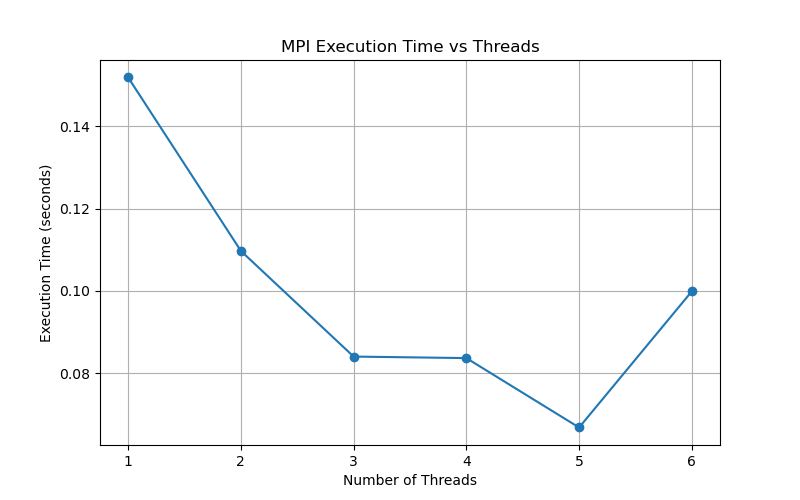
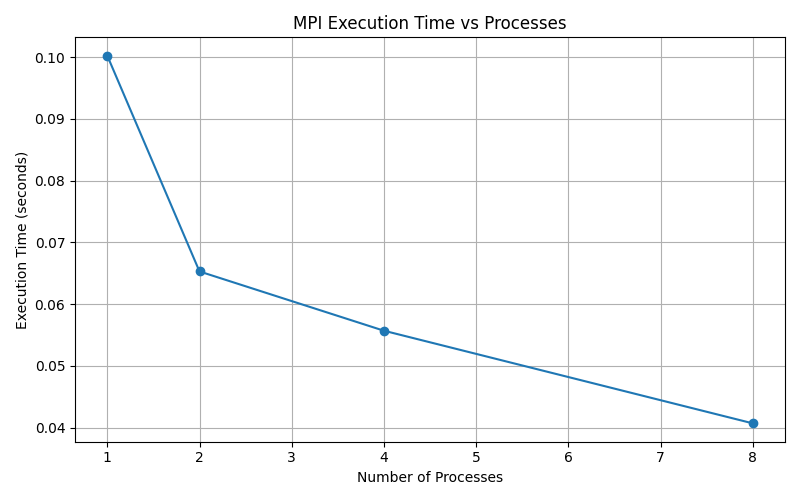
complete MPI implementation with benchmark text logs, plots, and updated hybrid CUDA script

diff --git a/scripts/visualization/plot_mpi_result.py b/scripts/visualization/plot_mpi_result.py
@@ -1,38 +1,131 @@
-# Run :  python3 plot_mpi_result.py
-# linux:  python3 scripts/visualization/plot_mpi_result.py
-
-import matplotlib.pyplot as plt
+#!/usr/bin/env python3
+"""
+Plot MPI execution time, speedup and RMSE from benchmark results.
+"""
 from pathlib import Path
+import matplotlib.pyplot as plt
 
-threads = []
-times = []
+def load_two_col(path: Path) -> dict[int, float]:
+    data = {}
+    with path.open() as file_handle:
+        for line in file_handle:
+            line = line.strip()
+            if not line or line.startswith("#"):
+                continue
+            parts = line.split()
+            if len(parts) >= 2:
+                try:
+                    data[int(parts[0])] = float(parts[1])
+                except ValueError:
+                    continue
+    return data
 
-# Resolve paths based on this script's location
-script_dir = Path(__file__).resolve().parent
-project_root = script_dir.parent.parent
-results_path = project_root / "results" / "benchmarks" / "mpi_benchmarks.txt"
-plots_dir = project_root / "results" / "plots"
-plots_dir.mkdir(parents=True, exist_ok=True)
-image_path = plots_dir / "mpi_execution_time_plot.png"
+def load_single_value(path: Path) -> float:
+    if not path.exists():
+        raise FileNotFoundError(f"Missing file: {path}")
+    with path.open() as file_handle:
+        for line in file_handle:
+            line = line.strip()
+            if not line or line.startswith("#"):
+                continue
+            try:
+                return float(line.split()[0])
+            except (ValueError, IndexError):
+                continue
+    raise ValueError(f"No numeric value found in {path}")
 
-# read results
-if not results_path.exists():
-    raise FileNotFoundError(f"results.txt not found at: {results_path}")
-with results_path.open() as f:
-    for line in f:
-        t, time = line.split()
-        threads.append(int(t))
-        times.append(float(time))
+def save_line_plot(x_values, y_values, xlabel, ylabel, title, image_path):
+    plt.figure(figsize=(8, 5))
+    plt.plot(x_values, y_values, marker="o")
+    plt.xlabel(xlabel)
+    plt.ylabel(ylabel)
+    plt.title(title)
+    plt.grid(True)
+    plt.tight_layout()
+    plt.savefig(image_path)
+    plt.show()
 
-plt.figure(figsize=(8, 5))
-plt.plot(threads, times, marker="o")
+def main() -> None:
+    script_dir = Path(__file__).resolve().parent
+    project_root = script_dir.parent.parent
 
-plt.xlabel("Number of Threads")
-plt.ylabel("Execution Time (seconds)")
-plt.title("MPI Execution Time vs Threads")
-plt.grid(True)
+    bench_dir = project_root / "results" / "benchmarks"
+    plots_dir = project_root / "results" / "plots"
+    bench_dir.mkdir(parents=True, exist_ok=True)
+    plots_dir.mkdir(parents=True, exist_ok=True)
 
-plt.savefig(image_path)
-plt.show()
+    mpi_time_path = bench_dir / "mpi_execution_results.txt"
+    serial_time_path = bench_dir / "serial_execution_results.txt"
+    rmse_path = bench_dir / "mpi_rmse_results.txt"
 
-print(f"Saved plot to: {image_path}")
+    speedup_out_path = bench_dir / "mpi_speedup_results.txt"
+    execution_plot_path = plots_dir / "mpi_execution_time_plot.png"
+    speedup_plot_path = plots_dir / "mpi_speedup_plot.png"
+    rmse_plot_path = plots_dir / "mpi_rmse_plot.png"
+
+    if not mpi_time_path.exists():
+        raise FileNotFoundError(f"MPI results file not found: {mpi_time_path}")
+
+    mpi_data = load_two_col(mpi_time_path)
+    if not mpi_data:
+        raise ValueError(f"No MPI data found in {mpi_time_path}")
+
+    processes = sorted(mpi_data)
+    times = [mpi_data[p] for p in processes]
+
+    save_line_plot(
+        processes,
+        times,
+        "Number of Processes",
+        "Execution Time (seconds)",
+        "MPI Execution Time vs Processes",
+        execution_plot_path,
+    )
+    print(f"Saved plot to: {execution_plot_path}")
+
+    try:
+        serial_time = load_single_value(serial_time_path)
+    except Exception as e:
+        print(f"Serial baseline not found, skipping speedup: {e}")
+        serial_time = None
+
+    if serial_time is not None:
+        with speedup_out_path.open("w", encoding="utf-8") as f:
+            f.write("# processes speedup\n")
+            for p in processes:
+                speedup = serial_time / mpi_data[p] if mpi_data[p] > 0 else 0.0
+                f.write(f"{p} {speedup:.6f}\n")
+
+        speedups = [serial_time / mpi_data[p] if mpi_data[p] > 0 else 0.0 for p in processes]
+        save_line_plot(
+            processes,
+            speedups,
+            "Number of Processes",
+            "Speedup (serial / mpi)",
+            "MPI Speedup vs Processes",
+            speedup_plot_path,
+        )
+        print(f"Saved plot to: {speedup_plot_path}")
+        print(f"Wrote MPI speedup results to: {speedup_out_path}")
+    else:
+        print("Skipping speedup plot (no serial baseline).")
+
+    if rmse_path.exists():
+        rmse_data = load_two_col(rmse_path)
+        if rmse_data:
+            rmse_processes = sorted(rmse_data)
+            rmse_values = [rmse_data[p] for p in rmse_processes]
+            save_line_plot(
+                rmse_processes,
+                rmse_values,
+                "Number of Processes",
+                "RMSE",
+                "MPI RMSE vs Processes",
+                rmse_plot_path,
+            )
+            print(f"Saved plot to: {rmse_plot_path}")
+    else:
+        print(f"RMSE file not found, skipping RMSE plot: {rmse_path}")
+
+if __name__ == "__main__":
+    main()

diff --git a/src/mpi/hist_eq_mpi.c b/src/mpi/hist_eq_mpi.c
@@ -15,6 +15,7 @@
 #include <string.h>
 #include <ctype.h>
 #include <mpi.h>
+#include <math.h>
 
 #define L 256
 
@@ -61,6 +62,20 @@ static int write_pgm_p5(const char *path, const uint8_t *data, int w, int h) {
     fwrite(data, 1, (size_t)w * h, fp);
     fclose(fp);
     return 1;
+}
+
+static double compute_rmse(const uint8_t *a, const uint8_t *b, int w, int h)
+{
+    size_t n = (size_t)w * (size_t)h;
+    double sum_sq = 0.0;
+
+    for (size_t i = 0; i < n; i++)
+    {
+        double diff = (double)a[i] - (double)b[i];
+        sum_sq += diff * diff;
+    }
+
+    return sqrt(sum_sq / (double)n);
 }
 
 // ---------- Main MPI Logic ----------
@@ -164,25 +179,49 @@ int main(int argc, char **argv) {
     // --- End Timing ---
 
    if (rank == 0) {
-        printf("MPI Processes: %d | Time: %f seconds\n", size, end_time - start_time);
+        double time = end_time - start_time;
+        printf("MPI Processes: %d | Time: %f seconds\n", size, time);
         
-        // Open for appending ("a") to collect all experiment results in one file
-        FILE *res_fp = fopen("results/benchmarks/mpi_benchmarks.txt", "a");
+        // 1. Handle Execution Results File
+        FILE *res_fp = fopen("results/benchmarks/mpi_execution_results.txt", "a");
         if(res_fp) {
-            // FORMAT: <Number of Processes> <Execution Time>
-            fprintf(res_fp, "%d %f\n", size, end_time - start_time);
+            fseek(res_fp, 0, SEEK_END);
+            if (ftell(res_fp) == 0) fprintf(res_fp, "# processes time\n");
+            fprintf(res_fp, "%d %f\n", size, time);
             fclose(res_fp);
-        } else {
-            fprintf(stderr, "Error: Could not open benchmarks file.\n");
         }
-        
+
         write_pgm_p5(argv[2], full_image, w, h);
 
-            // convert to PNG automatically
-system("convert results/pgm/output_mpi.pgm results/png/04_output_mpi.png");
+        // 2. Handle RMSE File (Validation against sequential implementation output)
+        int ref_w = 0, ref_h = 0, ref_maxval = 0;
+        uint8_t *reference = read_pgm_p5("results/pgm/output_serial.pgm", &ref_w, &ref_h, &ref_maxval);
+        
+        if (reference) {
+            if (ref_w == w && ref_h == h) {
+                double rmse_value = compute_rmse(reference, full_image, w, h);
+                printf("MPI Processes: %d | Time: %f | RMSE: %f\n", size, time, rmse_value);
+                
+                FILE *rmse_fp = fopen("results/benchmarks/mpi_rmse_results.txt", "a");
+                if (rmse_fp) {
+                    fseek(rmse_fp, 0, SEEK_END);
+                    if (ftell(rmse_fp) == 0) fprintf(rmse_fp, "# processes rmse\n");
+                    fprintf(rmse_fp, "%d %f\n", size, rmse_value);
+                    fclose(rmse_fp);
+                }
+            } else {
+                printf("Error: Serial and MPI images have different dimensions\n");
+            }
+            free(reference);
+        } else {
+            printf("Error: Could not read results/pgm/output_serial.pgm for RMSE calculation\n");
+        }
+
+        // convert to PNG automatically
+        system("convert results/pgm/output_mpi.pgm results/png/04_output_mpi.png");
 
         free(full_image);
-    }       
+    }   
 
     free(local_pixels);
     free(send_counts);
